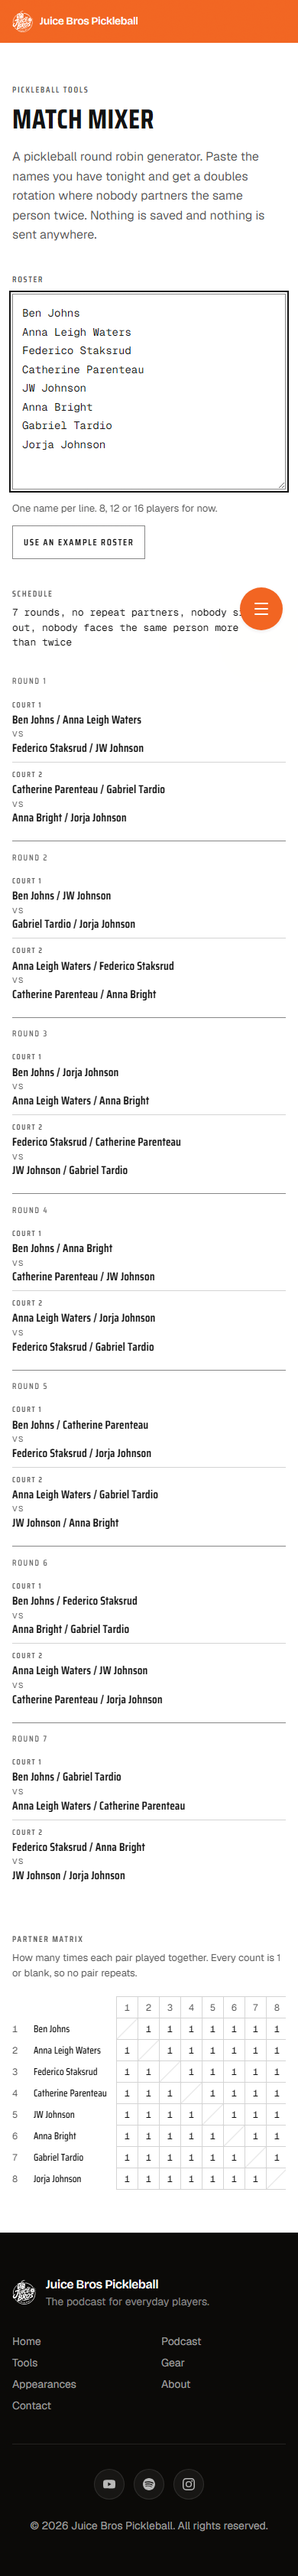
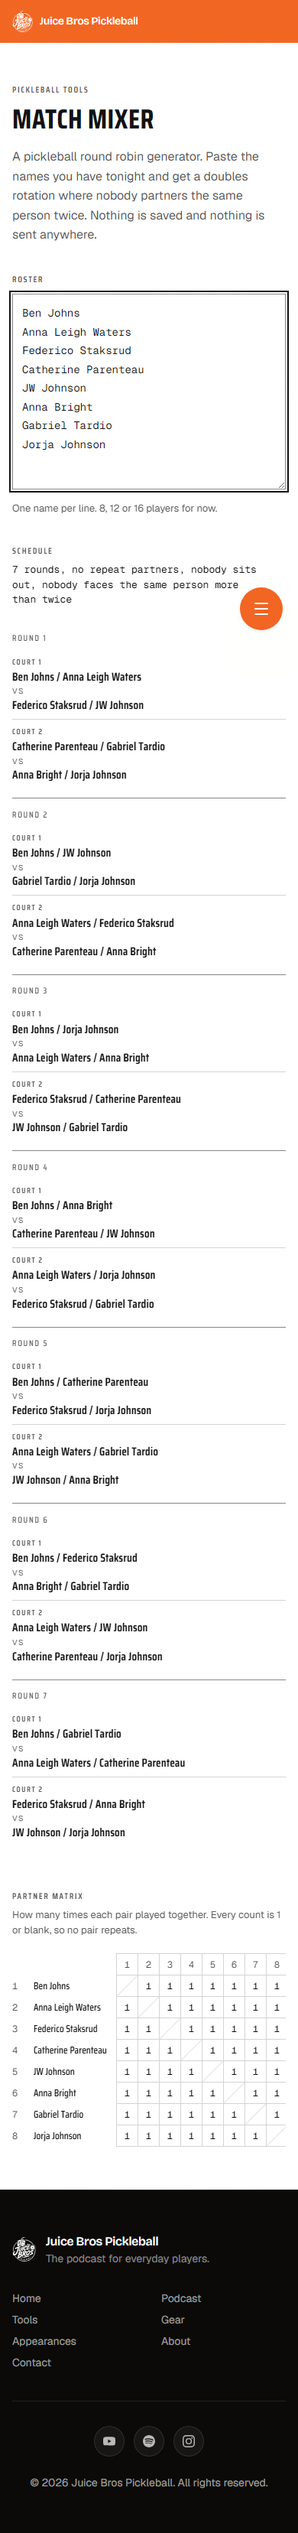
Match Mixer: address the two-axis code review
Spec axis:
- Roster ids were stable in the library but not in the product: the page
  re-parsed from empty on every keystroke, so ids were pure position. The
  Roster is now held beside the text and parsed against its previous self.
- The Partner Matrix asserted "every count is 1 or blank" in hardcoded copy.
  ADR 0002 says nothing claims balance except the Scorer reading the Schedule
  actually produced, so that sentence now comes off repeatedPartnerPairs.
- Dropped duplicateNames() and the "use an example roster" button: both are
  #395's, and neither was called by anything here.

Standards axis:
- SUPPORTED_ROSTER_SIZES restated what TABLES already holds. It now derives
  from TABLES, in schedule.ts where the capability it describes lives.
- Fixed the wrong test file cited in the table script header, renamed
  nextIdFrom to nextIdAfter (it returns the next free id, not the highest),
  moved same-folder component imports to relative per the Pickle Point Pal
  convention, and dropped "draw sheet" from the CSS header, which is a term
  match-mixer/CONTEXT.md tells us to avoid.

Changed region(s): [[0.0308, 0.0, 0.9538, 0.933], [0.8923, 0.7464, 0.9231, 0.7775], [0.4923, 0.9641, 0.5231, 0.9952]]

diff --git a/src/components/apps/match-mixer/match-mixer.tsx b/src/components/apps/match-mixer/match-mixer.tsx
@@ -4,13 +4,17 @@ import { useMemo, useState } from "react";
 
 import { parseRoster } from "@/components/apps/match-mixer/lib/engine/roster";
 import { scoreSchedule } from "@/components/apps/match-mixer/lib/engine/scorer";
-import { generateSchedule } from "@/components/apps/match-mixer/lib/engine/schedule";
 import {
+  generateSchedule,
   SUPPORTED_ROSTER_SIZES,
-  type Config,
+} from "@/components/apps/match-mixer/lib/engine/schedule";
+import type {
+  Config,
+  Roster,
 } from "@/components/apps/match-mixer/lib/engine/types";
-import { PartnerMatrix } from "@/components/apps/match-mixer/partner-matrix";
-import { ScheduleGrid } from "@/components/apps/match-mixer/schedule-grid";
+
+import { PartnerMatrix } from "./partner-matrix";
+import { ScheduleGrid } from "./schedule-grid";
 
 /**
  * Match Mixer's only screen. Paste a Roster, read the Schedule.
@@ -39,8 +43,16 @@ function listSizes(sizes: readonly number[]): string {
 
 export function MatchMixer() {
   const [text, setText] = useState("");
+  // The Roster is kept beside the text rather than derived from it, because
+  // parsing has to see the previous entries to hand a corrected or reordered
+  // line back its existing id.
+  const [roster, setRoster] = useState<Roster>([]);
 
-  const roster = useMemo(() => parseRoster(text), [text]);
+  const editRoster = (next: string) => {
+    setText(next);
+    setRoster((previous) => parseRoster(next, previous));
+  };
+
   const size = roster.length;
   const supported = SUPPORTED_ROSTER_SIZES.includes(size);
 
@@ -73,7 +85,7 @@ export function MatchMixer() {
               id="mm-roster"
               className="mm-input mt-3 h-64 w-full resize-y p-3"
               value={text}
-              onChange={(event) => setText(event.target.value)}
+              onChange={(event) => editRoster(event.target.value)}
               placeholder={EXAMPLE_ROSTER}
               spellCheck={false}
               aria-describedby="mm-roster-note"
@@ -81,13 +93,6 @@ export function MatchMixer() {
             <p id="mm-roster-note" className="mm-note mt-2">
               One name per line. {listSizes(SUPPORTED_ROSTER_SIZES)} players for now.
             </p>
-            <button
-              type="button"
-              className="mm-button mt-3"
-              onClick={() => setText(EXAMPLE_ROSTER)}
-            >
-              Use an example roster
-            </button>
           </div>
 
           <div className="min-w-0">

diff --git a/src/app/globals.css b/src/app/globals.css
@@ -2841,13 +2841,13 @@ html:has(.bb-app-chrome) {
 
 
   /* ==========================================================================
-     Match Mixer - the draw sheet.
+     Match Mixer - the schedule sheet.
 
-     CONCEPT - the grid is the interface. The subject is a paper draw sheet, so
-     the page behaves like one: rounds down, courts across, hairline rules and
-     precise alignment rather than cards, shadows or rounded corners. Elegance
-     here is spacing, not decoration, which is why there is no motion on this
-     surface at all.
+     CONCEPT - the grid is the interface. The subject is a sheet of paper
+     pinned up at the desk, so the page behaves like one: rounds down, courts
+     across, hairline rules and precise alignment rather than cards, shadows
+     or rounded corners. Elegance here is spacing, not decoration, which is
+     why there is no motion on this surface at all.
 
      COLOR - black on white, always. A schedule is a document; it is read in a
      gym and printed on a mono printer, so there is no dark variant and no
@@ -2931,23 +2931,6 @@ html:has(.bb-app-chrome) {
   }
   .mm-input::placeholder {
     color: oklch(0.74 0 0);
-  }
-  .mm-button {
-    display: inline-flex;
-    align-items: center;
-    min-height: 44px;
-    padding: 0 0.875rem;
-    border: 1px solid var(--mm-rule-strong);
-    background: var(--mm-paper);
-    color: var(--mm-ink);
-    font-family: var(--font-arena), "Saira Condensed", "Arial Narrow", sans-serif;
-    font-weight: 600;
-    font-size: 0.75rem;
-    letter-spacing: 0.14em;
-    text-transform: uppercase;
-  }
-  .mm-button:hover {
-    background: var(--mm-sink);
   }
 
   /* A wide table gets its own scroller so the page itself never scrolls

diff --git a/src/components/apps/match-mixer/lib/engine/roster.ts b/src/components/apps/match-mixer/lib/engine/roster.ts
@@ -12,13 +12,14 @@ import type { Roster } from "./types.ts";
 
 const ID_PREFIX = "p";
 
-function nextIdFrom(previous: Roster): number {
-  let highest = 0;
+/** The lowest id number not already taken, so a new entry never reuses one. */
+function nextIdAfter(previous: Roster): number {
+  let next = 0;
   for (const player of previous) {
     const match = /^p(\d+)$/.exec(player.id);
-    if (match) highest = Math.max(highest, Number(match[1]) + 1);
+    if (match) next = Math.max(next, Number(match[1]) + 1);
   }
-  return highest;
+  return next;
 }
 
 export function parseRoster(text: string, previous: Roster = []): Roster {
@@ -36,19 +37,10 @@ export function parseRoster(text: string, previous: Roster = []): Roster {
     else unclaimed.set(player.name, [player.id]);
   }
 
-  let nextId = nextIdFrom(previous);
+  let nextId = nextIdAfter(previous);
   return names.map((name) => {
     const reusable = unclaimed.get(name);
     const id = reusable?.shift() ?? `${ID_PREFIX}${nextId++}`;
     return { id, name };
   });
-}
-
-/** Names entered more than once — a notice for the organizer, never a block. */
-export function duplicateNames(roster: Roster): string[] {
-  const counts = new Map<string, number>();
-  for (const player of roster) {
-    counts.set(player.name, (counts.get(player.name) ?? 0) + 1);
-  }
-  return [...counts.entries()].filter(([, count]) => count > 1).map(([name]) => name);
 }

diff --git a/src/components/apps/match-mixer/lib/engine/schedule.test.ts b/src/components/apps/match-mixer/lib/engine/schedule.test.ts
@@ -3,9 +3,13 @@ import test from "node:test";
 
 import { parseRoster } from "./roster.ts";
 import { scoreSchedule } from "./scorer.ts";
-import { generateSchedule, UnsupportedConfigError } from "./schedule.ts";
+import {
+  generateSchedule,
+  SUPPORTED_ROSTER_SIZES,
+  UnsupportedConfigError,
+} from "./schedule.ts";
 import { TABLES } from "./tables.ts";
-import { SUPPORTED_ROSTER_SIZES, type Config, type Schedule } from "./types.ts";
+import type { Config, Schedule } from "./types.ts";
 
 function configFor(n: number, overrides: Partial<Config> = {}): Config {
   const roster = parseRoster(
@@ -76,11 +80,11 @@ test("a Table seats every player exactly once per round and nobody sits out", ()
   }
 });
 
-test("Tables cover exactly the supported roster sizes at n / 4 courts", () => {
-  assert.deepEqual(
-    TABLES.map((table) => table.n),
-    [...SUPPORTED_ROSTER_SIZES],
-  );
+test("every advertised roster size really schedules, at n / 4 courts", () => {
+  assert.ok(SUPPORTED_ROSTER_SIZES.length > 0);
+  for (const n of SUPPORTED_ROSTER_SIZES) {
+    assert.equal(generateSchedule(configFor(n)).source, "table");
+  }
   for (const table of TABLES) {
     assert.equal(table.courts, table.n / 4);
   }

diff --git a/src/components/apps/match-mixer/lib/engine/schedule.ts b/src/components/apps/match-mixer/lib/engine/schedule.ts
@@ -1,4 +1,4 @@
-import { findTable } from "./tables.ts";
+import { findTable, TABLES } from "./tables.ts";
 import {
   MAX_ROSTER_SIZE,
   MIN_ROSTER_SIZE,
@@ -12,6 +12,17 @@ import {
  * the randomized greedy fallback behind this same signature, which is why
  * callers ask for a Schedule rather than asking whether a Table exists.
  */
+
+/**
+ * Roster sizes `generateSchedule` can serve, for callers that need to know
+ * before they ask — the UI has to offer a "not yet supported" state rather
+ * than catch. Today that is exactly the sizes with a stored Table, so it is
+ * read off the Tables rather than restated beside them; RR-1.2 widens it to
+ * MIN_ROSTER_SIZE..MAX_ROSTER_SIZE when the greedy generator lands.
+ */
+export const SUPPORTED_ROSTER_SIZES: readonly number[] = TABLES.map(
+  (table) => table.n,
+);
 
 /**
  * Thrown when no Schedule can be produced for a Config. Callers screen for

diff --git a/src/components/apps/match-mixer/lib/engine/roster.test.ts b/src/components/apps/match-mixer/lib/engine/roster.test.ts
@@ -1,7 +1,7 @@
 import assert from "node:assert/strict";
 import test from "node:test";
 
-import { duplicateNames, parseRoster } from "./roster.ts";
+import { parseRoster } from "./roster.ts";
 
 test("one name per line, blank lines and stray whitespace dropped", () => {
   const roster = parseRoster(
@@ -42,11 +42,4 @@ test("a removed name's id is not handed to a later arrival", () => {
 
   assert.equal(second[0].id, first[0].id);
   assert.notEqual(second[1].id, first[1].id);
-});
-
-test("duplicate names are reported, once each", () => {
-  assert.deepEqual(duplicateNames(parseRoster("Mike\nBen Johns\nMike\nMike")), [
-    "Mike",
-  ]);
-  assert.deepEqual(duplicateNames(parseRoster("Ben Johns\nAnna Leigh Waters")), []);
 });

diff --git a/src/components/apps/match-mixer/lib/engine/types.ts b/src/components/apps/match-mixer/lib/engine/types.ts
@@ -75,13 +75,6 @@ export const MIN_ROSTER_SIZE = 4;
 export const MAX_ROSTER_SIZE = 32;
 
 /**
- * Roster sizes `generateSchedule` can serve today: the three sizes with a
- * stored Table, each at `courts === n / 4`. RR-1.2 replaces this with the full
- * MIN_ROSTER_SIZE..MAX_ROSTER_SIZE range once the greedy generator lands.
- */
-export const SUPPORTED_ROSTER_SIZES: readonly number[] = [8, 12, 16];
-
-/**
  * The Scorer's reading of one Schedule. `cost` is the number the generator
  * minimizes; everything else is what the summary line and the Partner Matrix
  * render. A perfectly balanced Schedule scores `cost === 0`.

diff --git a/src/components/apps/match-mixer/partner-matrix.tsx b/src/components/apps/match-mixer/partner-matrix.tsx
@@ -25,8 +25,12 @@ export function PartnerMatrix({
         Partner Matrix
       </h2>
       <p className="mm-note mt-2">
-        How many times each pair played together. Every count is 1 or blank, so no
-        pair repeats.
+        How many times each pair played together.{" "}
+        {score.repeatedPartnerPairs === 0
+          ? "Every count is 1 or blank, so no pair repeats."
+          : `${score.repeatedPartnerPairs} ${
+              score.repeatedPartnerPairs === 1 ? "pair" : "pairs"
+            } played together more than once, boxed below.`}
       </p>
 
       <div className="mm-scroll mt-5">
